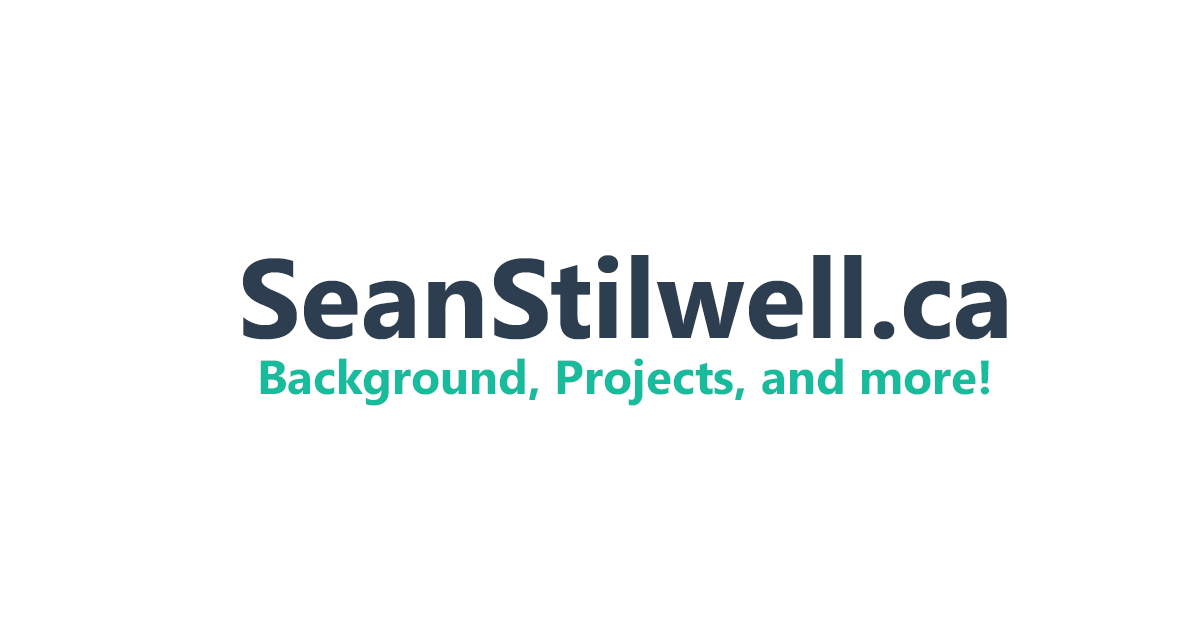
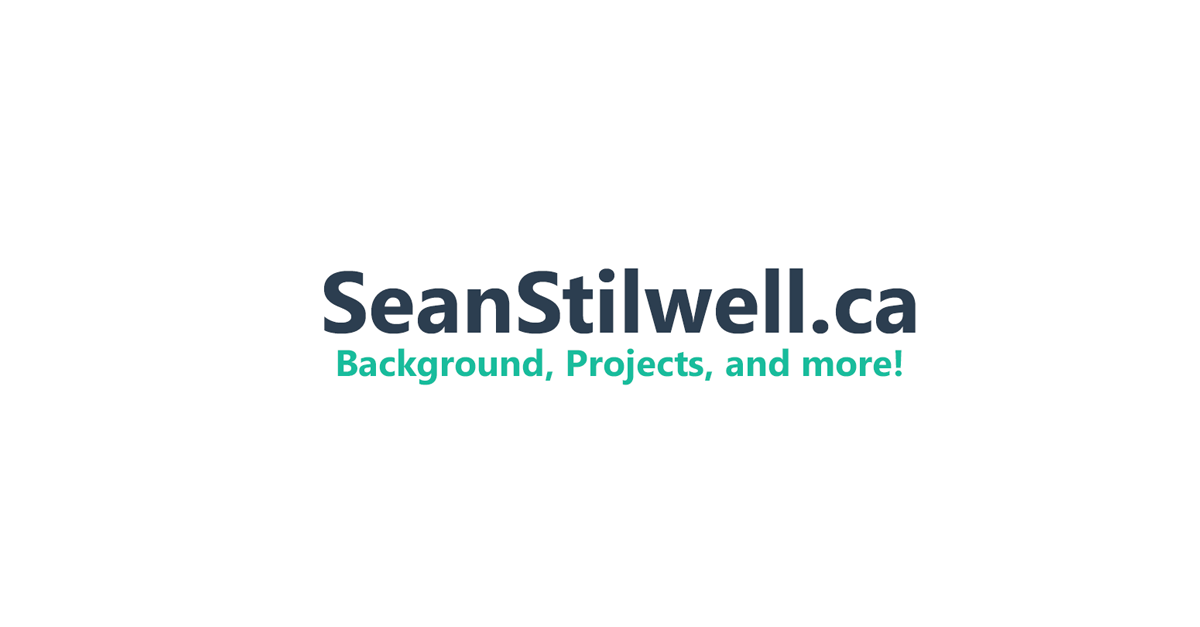
Updating courses and OG image

Changed region(s): [[0.185, 0.3939, 0.8633, 0.6667]]

diff --git a/index.html b/index.html
@@ -5,8 +5,8 @@
     <meta charset="utf-8">
     <meta name="viewport" content="width=device-width, initial-scale=1.0, shrink-to-fit=no">
     <title>Sean Stilwell</title>
-    <meta name="author" content="Sean Stilwell">
     <meta property="og:image" content="assets/img/og_image.png">
+    <meta name="author" content="Sean Stilwell">
     <meta name="keywords" content="sean stilwell, software developer, intern, student, developer, mobile, web, uottawa, sean, stilwell, sean stillwell, shawn, stillwell, projects, html, css, javascript, java, c#, python, apps, github">
     <meta property="og:url" content="https://seanstilwell.ca">
     <meta property="og:description" content="Sean Stilwell's Website - Information about me and my work as a software developer">
@@ -64,7 +64,7 @@
                     <h4 class="card-title" style="color: var(--secondary);">University of Ottawa</h4>
                     <h5 class="text-muted card-subtitle mb-2" style="color: var(--secondary);">Honours Bachelor of Science in Computer Science (French Immersion, CO-OP)</h5>
                     <p class="card-text" style="margin-bottom: 0px;">• CGPA: 8.23 / 10 (equivalent to 3.7 / 4)&nbsp;<br>•&nbsp;Relevant Courses:<br></p>
-                    <p class="card-text" style="margin-bottom: 5px;padding-right: 25px;padding-left: 25px;">Technical Report Writing, Data Structures and Algorithms, Professional Practice in Computing, Databases I, Programming Paradigms, Design and Analysis of Algorithms, Programming Language Concepts, Advancing Programming Concepts in C++, Software Requirements Analysis<br></p>
+                    <p class="card-text" style="margin-bottom: 5px;padding-right: 25px;padding-left: 25px;">Technical Report Writing, Professional Practice in Computing, Databases I, Design and Analysis of Algorithms, Programming Language Concepts, Advanced Programming Concepts in C++,&nbsp;Analysis and Design of User Interfaces,&nbsp;Software Requirements Analysis, Operating Systems<br></p>
                     <p style="margin: 0px;">Sept. 2018 - Dec. 2022 | Ottawa, ON<br></p>
                 </div>
             </div>
